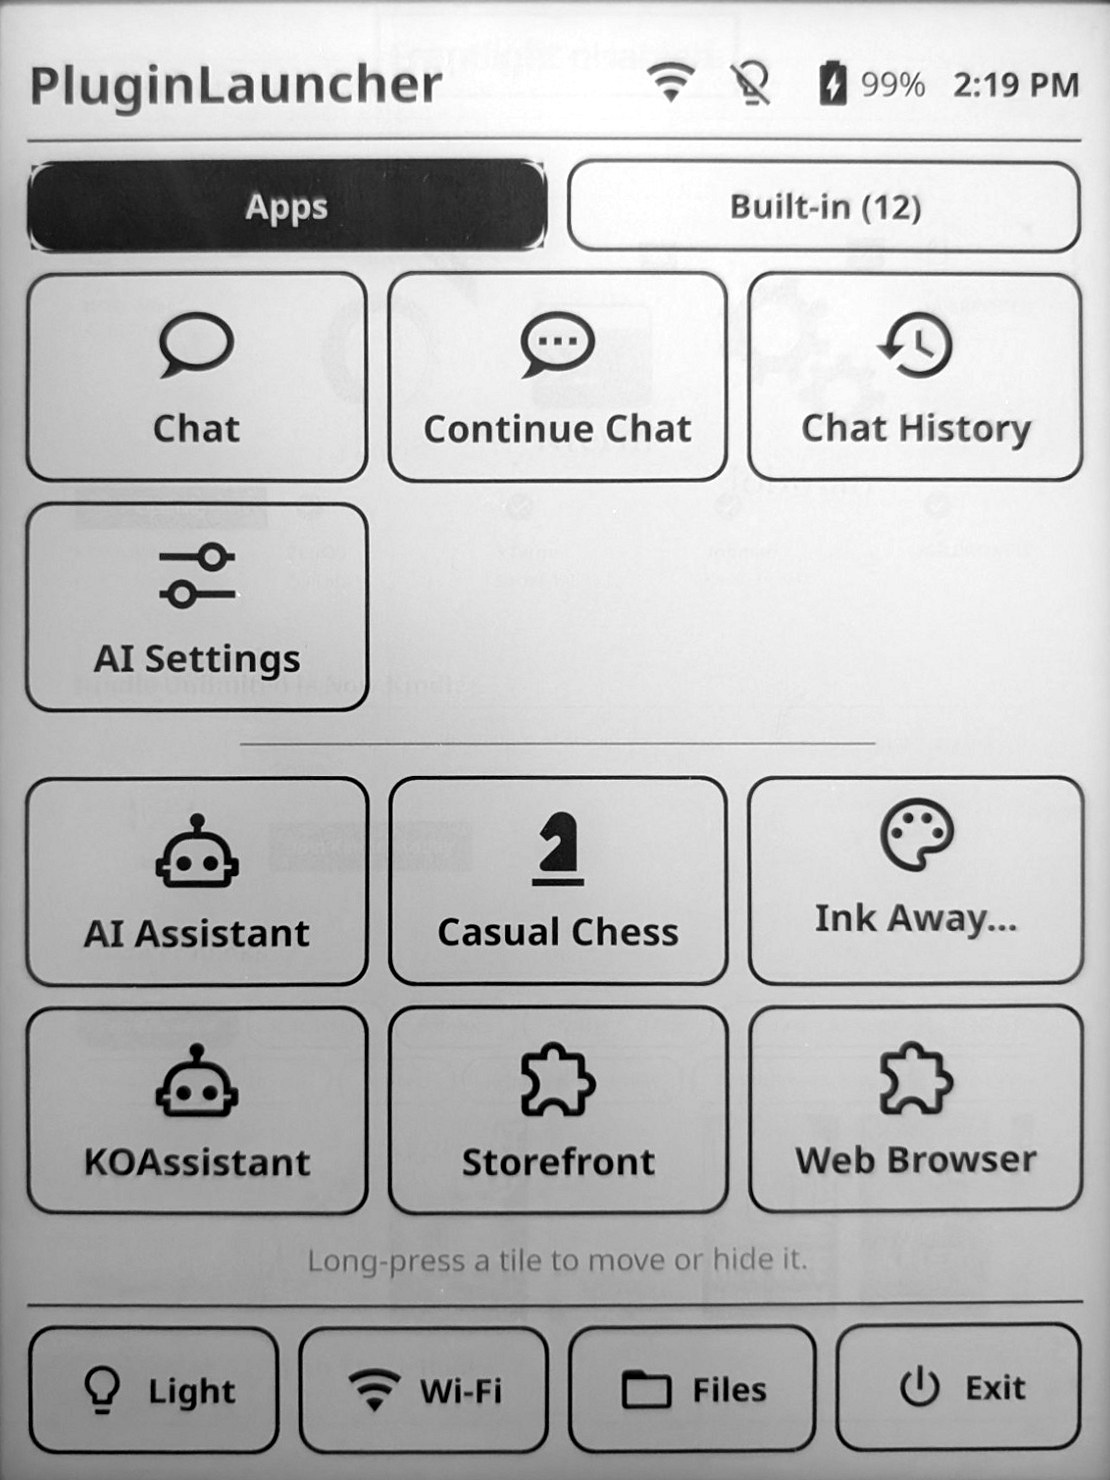
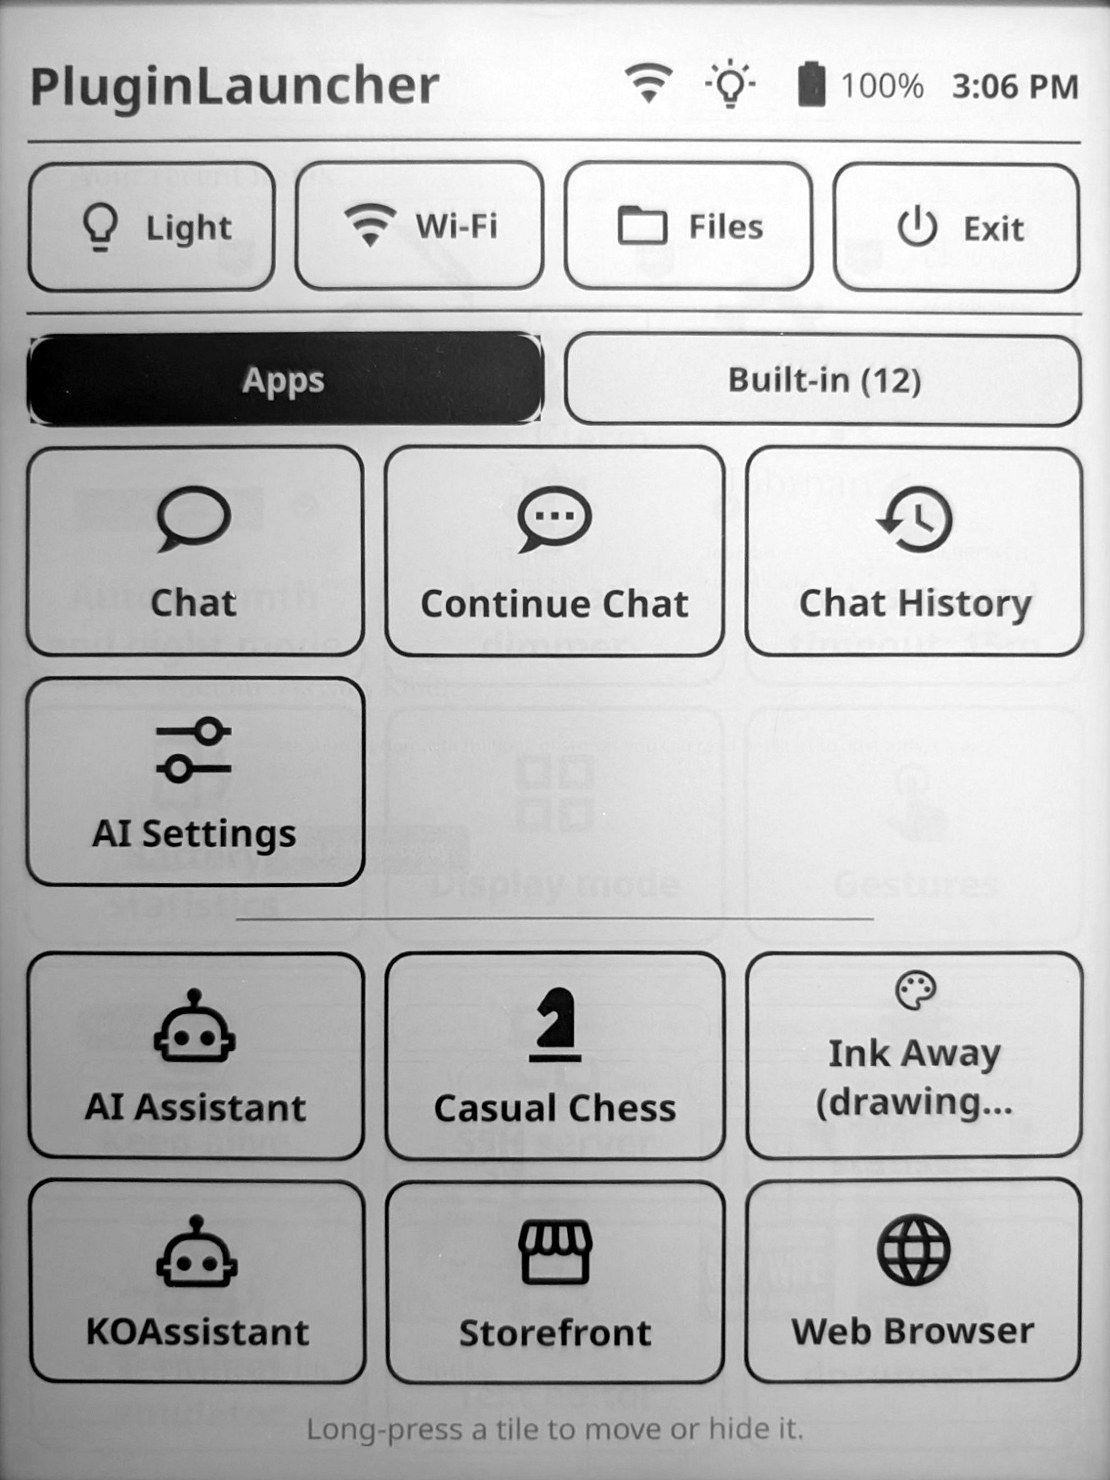
Update the screenshot for the new layout
New photo with the device controls at the top. Straightened, converted
to greyscale, with all metadata removed.

Claude-Session: https://claude.ai/code/session_01QizhqU2zFK73J5kd19ukp3

Changed region(s): [[0.0, 0.0, 0.9802, 1.0], [0.8577, 0.0311, 0.9802, 0.0622], [0.9802, 0.0, 1.0, 0.0311]]

diff --git a/README.md b/README.md
@@ -7,7 +7,7 @@ every installed plugin. It's handy on devices you use for more than reading:
 chatting with an AI assistant, playing games, or running tools.
 
 <p align="center">
-  <img src="screenshots/apps.jpg" width="480" alt="PluginLauncher on a Kindle Scribe: shortcut tiles for chat, a divider, then plugin tiles such as an AI assistant, a chess game and a web browser, with Light, Wi-Fi, Files and Exit along the bottom">
+  <img src="screenshots/apps.jpg" width="480" alt="PluginLauncher on a Kindle Scribe: Light, Wi-Fi, Files and Exit under the header, then Apps and Built-in tabs, shortcut tiles for chat, a divider, and plugin tiles such as an AI assistant, a chess game, a store and a web browser">
 </p>
 
 - **Apps** tab: your shortcuts, a thin divider, then every plugin you installed, A–Z.
